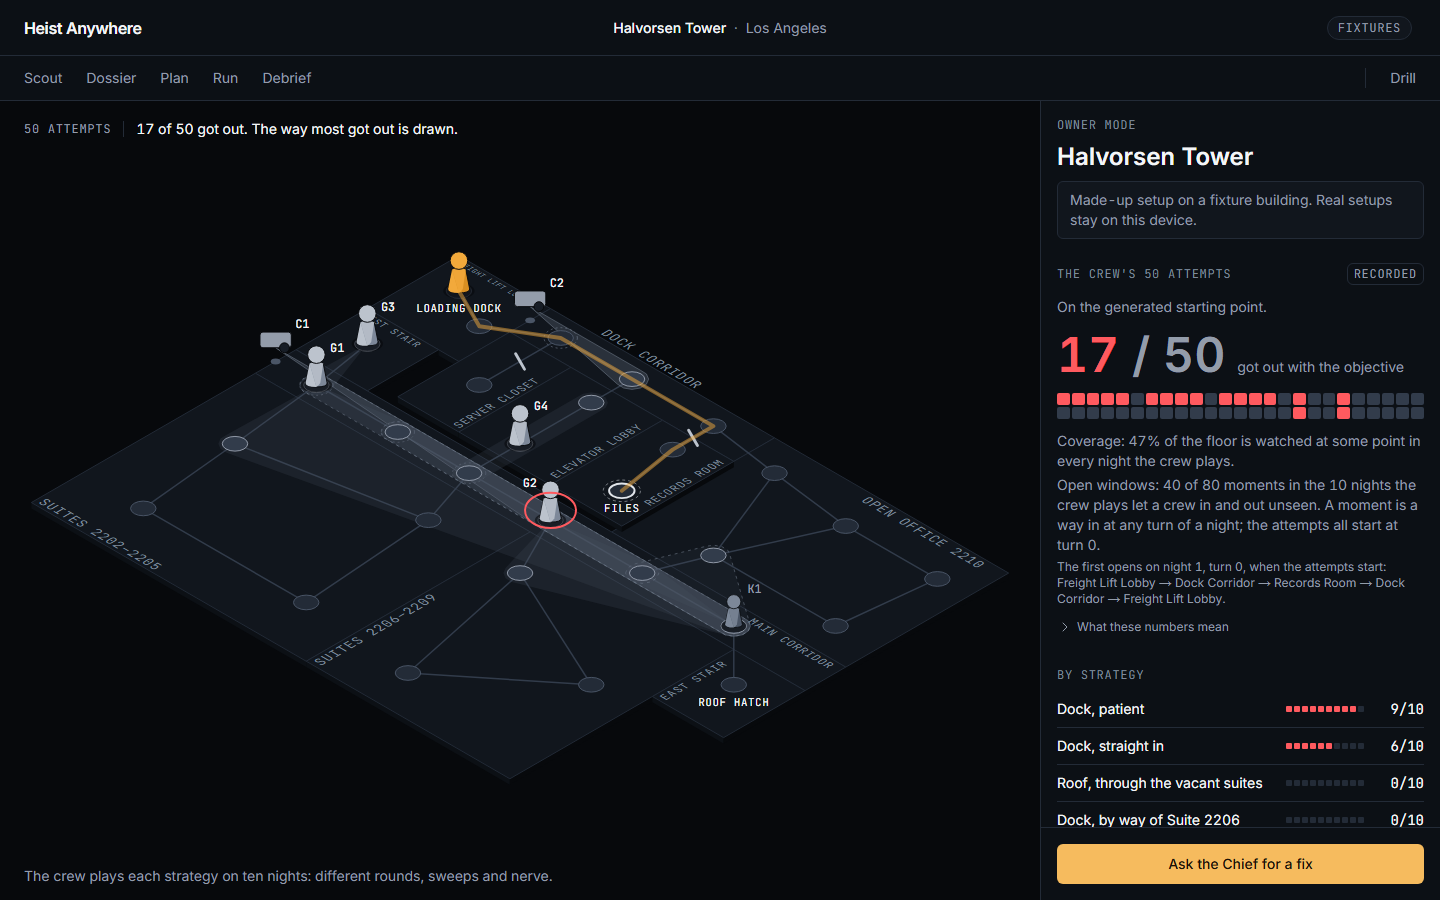
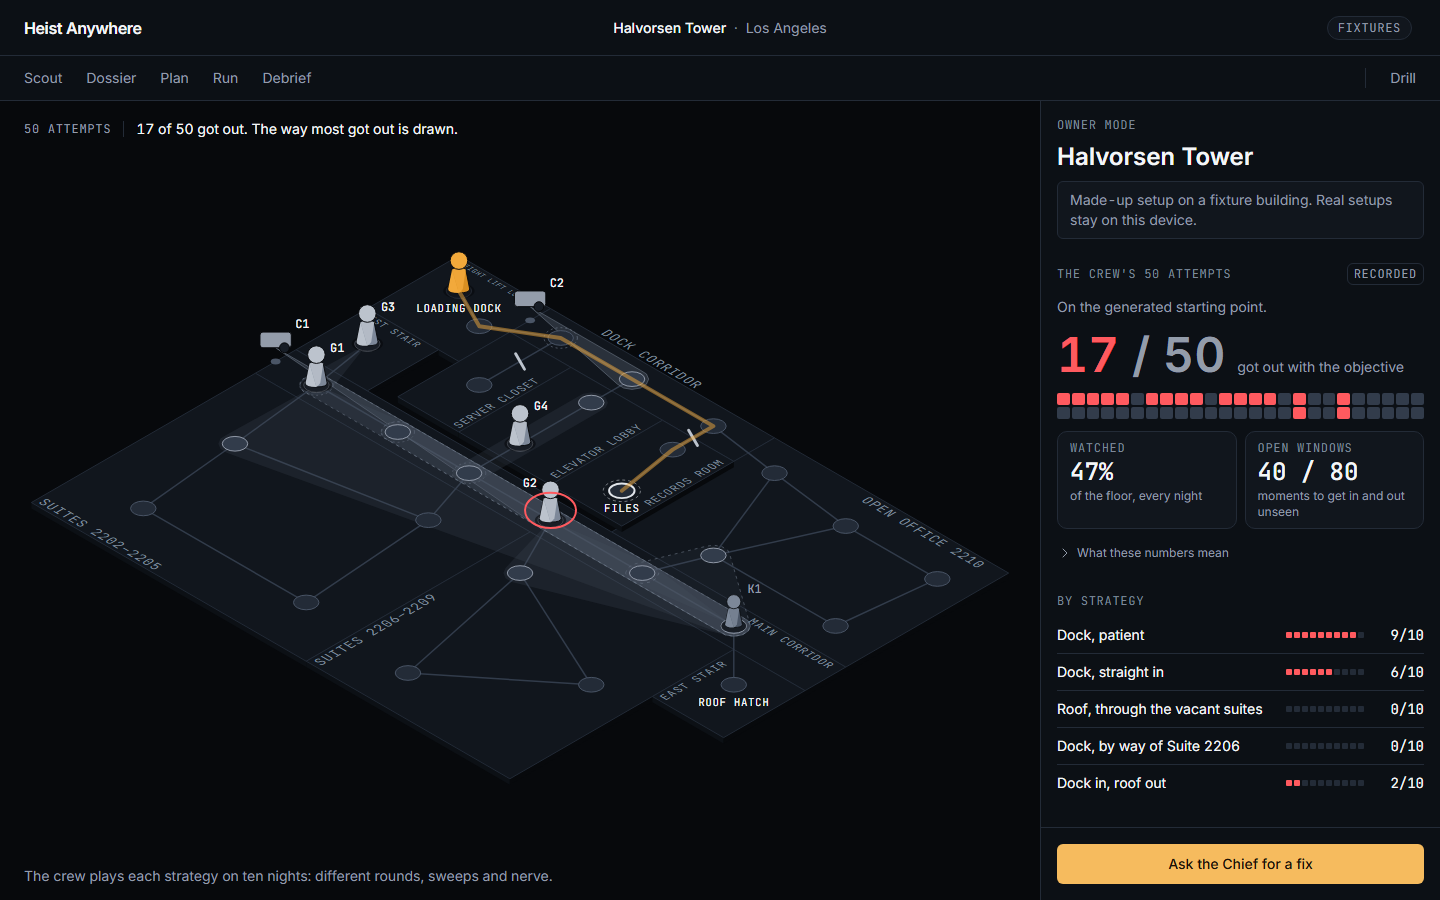
ui(owner): coverage and open windows as two tiles, real buttons, and quieter notes
Owner Mode's two measures read as tiles like the Debrief's stats, with their full sentences and definition folded under 'What these numbers mean'. Edit the setup and Back to the debrief are secondary buttons. The trace's replay notice drops its box, and the mission cards' disclaimer is set at text-xs.

diff --git a/src/components/owner/measure-lines.tsx b/src/components/owner/measure-lines.tsx
@@ -1,6 +1,7 @@
 // Coverage and open windows on screen (issue 120): what the floor plan
 // says about a setup, beside what the crew's attempts say. Read from
 // `measureSetup`, so it needs no batch and follows every edit.
+import type { ReactNode } from "react";
 import { ChevronRight } from "lucide-react";
 import { cn } from "@/lib/utils";
 import { coverageLine, firstWindowLine, measureChange, timingLine, windowsLine, type SetupMeasure } from "./setup-measure";
@@ -31,21 +32,38 @@ export function MeasureLines({
       data-windows={measure.windows.measured ? measure.windows.open : undefined}
       data-moments={measure.windows.measured ? measure.windows.moments : undefined}
       data-entries={measure.entries}
-      className={cn("flex flex-col gap-1 text-sm text-text-2", className)}
+      className={cn("flex flex-col gap-2 text-sm text-text-2", className)}
     >
-      <p data-testid={`${testId}-coverage`}>{coverageLine(measure)}</p>
-      <p data-testid={`${testId}-windows`}>{windowsLine(measure)}</p>
-      {first ? (
-        <p data-testid={`${testId}-first`} className="text-xs">
-          {first}
-        </p>
-      ) : null}
+      {/* The two numbers at a glance; the sentences that say them in full fold under the tiles (issue 166). */}
+      <dl className="grid grid-cols-2 gap-2">
+        <MeasureTile term="Watched" value={`${measure.coverage}%`} note="of the floor, every night" />
+        <MeasureTile
+          term="Open windows"
+          value={measure.windows.measured ? `${measure.windows.open} / ${measure.windows.moments}` : "—"}
+          note={measure.windows.measured ? "moments to get in and out unseen" : "not measured on this floor"}
+        />
+      </dl>
       {timing ? (
         <p data-testid={`${testId}-timing`} className="text-text-1">
           {timing}
         </p>
       ) : null}
-      <MeasureNote measure={measure} testId={`${testId}-note`} />
+      <MeasureNote measure={measure} testId={`${testId}-note`}>
+        <p data-testid={`${testId}-coverage`}>{coverageLine(measure)}</p>
+        <p data-testid={`${testId}-windows`}>{windowsLine(measure)}</p>
+        {first ? <p data-testid={`${testId}-first`}>{first}</p> : null}
+      </MeasureNote>
+    </div>
+  );
+}
+
+/** One number in a small tile, as the Debrief's stats are drawn. */
+function MeasureTile({ term, value, note }: { term: string; value: string; note: string }) {
+  return (
+    <div className="flex flex-col rounded-md border border-border bg-surface-2 px-3 py-2">
+      <dt className="label-caps text-text-3">{term}</dt>
+      <dd className="font-mono text-xl font-medium text-text-1 tabular-nums">{value}</dd>
+      <dd className="text-xs text-text-2">{note}</dd>
     </div>
   );
 }
@@ -90,16 +108,25 @@ export function MeasureChange({ from, to, testId }: { from: SetupMeasure; to: Se
  * under every count, its sixty words pushed the strategies and the Chief's fix
  * below the fold on Owner Mode's panel (issue 166). The text is unchanged.
  */
-function MeasureNote({ measure, testId }: { measure: Pick<SetupMeasure, "noun">; testId?: string }) {
+function MeasureNote({
+  measure,
+  testId,
+  children,
+}: {
+  measure: Pick<SetupMeasure, "noun">;
+  testId?: string;
+  children?: ReactNode;
+}) {
   return (
     <details className="text-xs text-text-2">
       <summary className="inline-flex min-h-8 cursor-pointer list-none items-center gap-1 rounded-sm hover:text-text-1 [&::-webkit-details-marker]:hidden">
         <ChevronRight aria-hidden className="size-4 stroke-[1.5] transition-transform duration-fast [[open]>summary_&]:rotate-90" />
         What these numbers mean
       </summary>
-      <p data-testid={testId} className="mt-1">
-        {MEASURE_NOTE(measure)}
-      </p>
+      <div className="mt-1 flex flex-col gap-1">
+        {children}
+        <p data-testid={testId}>{MEASURE_NOTE(measure)}</p>
+      </div>
     </details>
   );
 }

diff --git a/src/components/owner/owner-ready.tsx b/src/components/owner/owner-ready.tsx
@@ -469,7 +469,7 @@ export function OwnerReady({
               onOpenFixed={openFixed}
             />
           )}
-          <Link href={debriefHref} data-testid="owner-back" className={cn(buttonVariants({ variant: "ghost" }), "self-start")}>
+          <Link href={debriefHref} data-testid="owner-back" className={cn(buttonVariants({ variant: "secondary" }), "self-start")}>
             Back to the debrief
           </Link>
         </div>

diff --git a/src/components/missions/mission-list.tsx b/src/components/missions/mission-list.tsx
@@ -119,7 +119,7 @@ function MissionCard({ mission }: { mission: Mission }) {
         ) : (
           <p className="flex h-10 items-center text-sm text-text-2">No source: written for the game.</p>
         )}
-        <p className="text-sm text-text-2">{MISSION_DISCLAIMER}</p>
+        <p className="text-xs text-text-2">{MISSION_DISCLAIMER}</p>
       </div>
     </article>
   );

diff --git a/src/components/owner/batch-panel.tsx b/src/components/owner/batch-panel.tsx
@@ -119,7 +119,7 @@ export function BatchPanel({
   onOpenFixed: () => void;
 }) {
   const back = (
-    <Button variant="ghost" data-testid="owner-edit" className="self-start" onClick={onEdit}>
+    <Button variant="secondary" data-testid="owner-edit" className="self-start" onClick={onEdit}>
       Edit the setup
     </Button>
   );

diff --git a/src/components/dossier/trace-list.tsx b/src/components/dossier/trace-list.tsx
@@ -68,7 +68,7 @@ export function TraceList({
             ))}
           </p>
       </div>
-      <p data-testid="trace-banner" className="rounded-sm border border-border bg-surface-2 px-3 py-2 text-sm text-text-2">
+      <p data-testid="trace-banner" className="text-sm text-text-2">
         {banner}
       </p>
 
